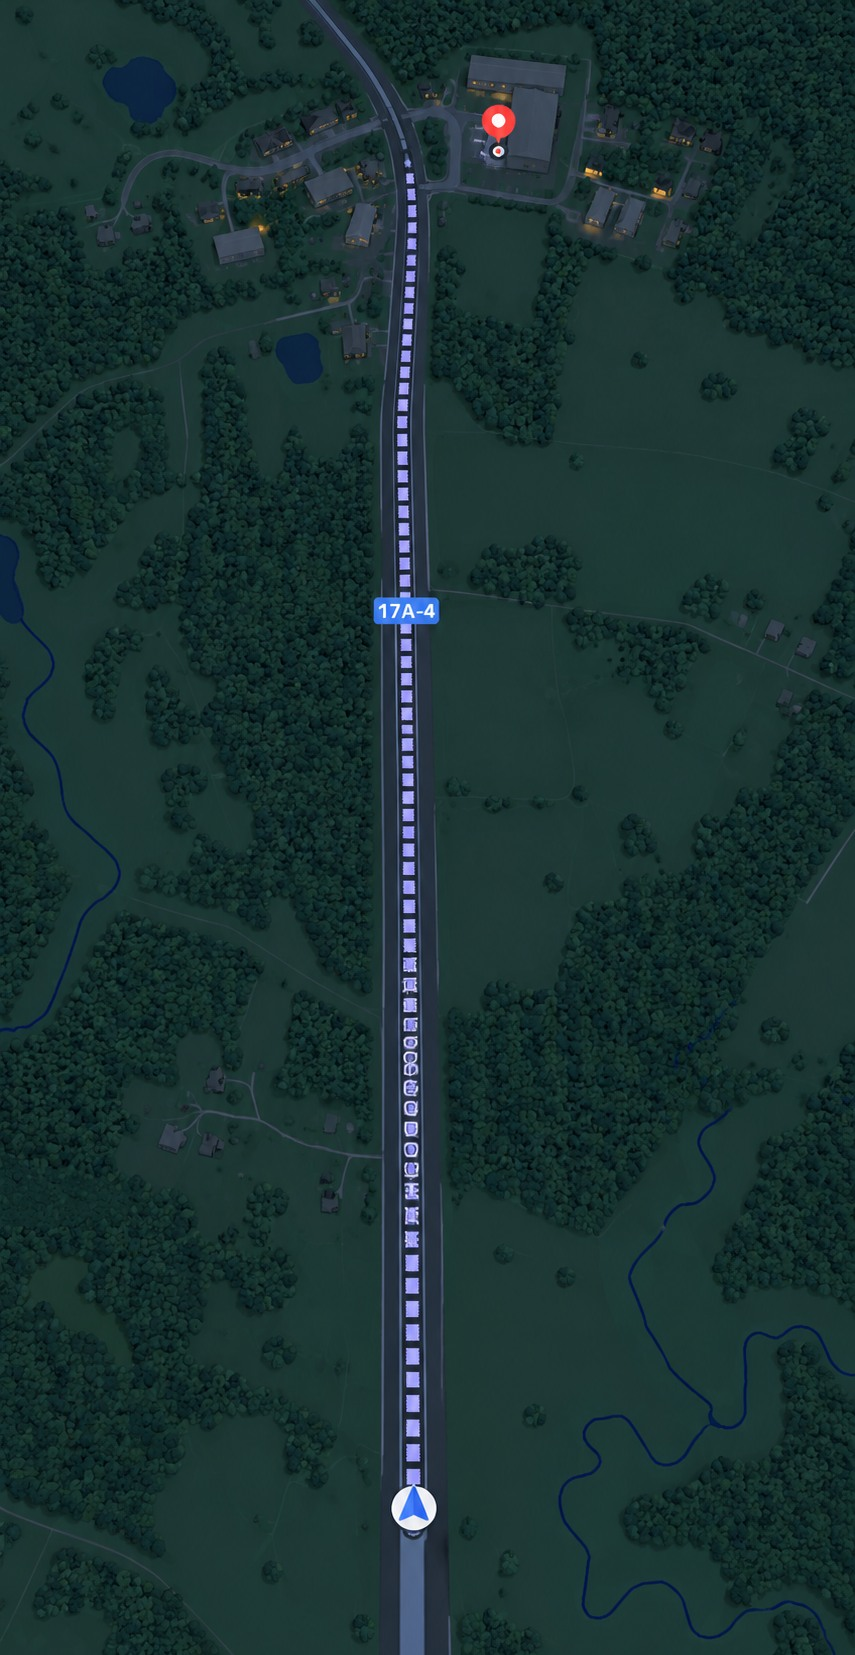
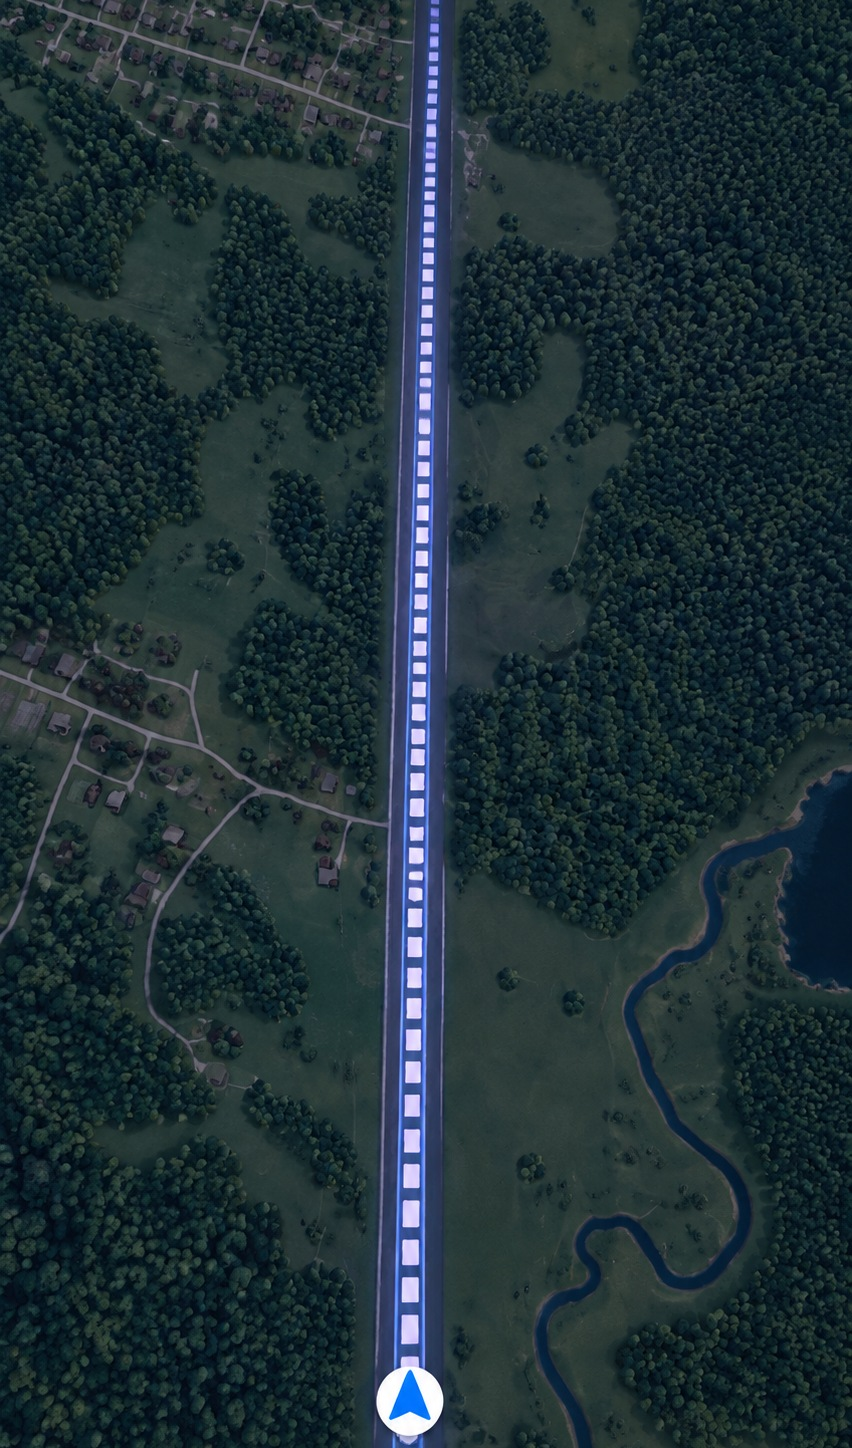
Add files via upload

diff --git a/index.html b/index.html
@@ -1,7 +1,7 @@
-<!doctype html><html lang="ru"><head><meta charset="utf-8"><meta name="viewport" content="width=device-width,initial-scale=1,maximum-scale=1,user-scalable=no,viewport-fit=cover"><meta name="apple-mobile-web-app-capable" content="yes"><meta name="apple-mobile-web-app-status-bar-style" content="black-translucent"><meta name="apple-mobile-web-app-title" content="Лесногорск"><meta name="mobile-web-app-capable" content="yes"><meta name="theme-color" content="#173a33"><link rel="manifest" href="manifest.webmanifest"><link rel="apple-touch-icon" href="icon.png"><title>Лесногорск — карта</title><style>*{box-sizing:border-box}html,body{margin:0;width:100%;height:100%;overflow:hidden;background:#173a33;font-family:-apple-system,BlinkMacSystemFont,"Segoe UI",sans-serif}canvas{position:fixed;inset:0;width:100%;height:100%;touch-action:none;display:block}#bottom{position:fixed;bottom:0;left:0;right:0;min-height:94px;padding:23px 8px calc(22px + env(safe-area-inset-bottom));background:#202126;color:white;text-align:center;border-radius:28px 28px 0 0;font-size:clamp(22px,6vw,30px);font-weight:650;pointer-events:none}#bottom span{color:#a6a7ad;font-weight:500}</style></head><body><canvas id="map" aria-label="Карта Лесногорского шоссе"></canvas><div id="bottom">Ещё 9 мин <span>· 1 км</span></div><script>
+<!doctype html><html lang="ru"><head><meta charset="utf-8"><meta name="viewport" content="width=device-width,initial-scale=1,maximum-scale=1,user-scalable=no,viewport-fit=cover"><meta name="apple-mobile-web-app-capable" content="yes"><meta name="apple-mobile-web-app-status-bar-style" content="black-translucent"><meta name="apple-mobile-web-app-title" content="Лесногорск"><meta name="mobile-web-app-capable" content="yes"><meta name="theme-color" content="#17252b"><link rel="manifest" href="manifest.webmanifest"><link rel="apple-touch-icon" href="icon.png"><title>Лесногорск — карта</title><style>*{box-sizing:border-box}html,body{margin:0;width:100%;height:100%;overflow:hidden;background:#17252b;font-family:-apple-system,BlinkMacSystemFont,"Segoe UI",sans-serif}canvas{position:fixed;inset:0;width:100%;height:100%;touch-action:none;display:block}#bottom{position:fixed;bottom:0;left:0;right:0;min-height:118px;padding:27px 8px calc(28px + env(safe-area-inset-bottom));background:#121825;color:white;text-align:center;border-radius:30px 30px 0 0;font-size:clamp(22px,6vw,30px);font-weight:650;pointer-events:none}#bottom span{color:#a6a7ad;font-weight:500}body:after{content:"";position:fixed;bottom:0;left:0;right:0;height:env(safe-area-inset-bottom);background:#121825;pointer-events:none}</style></head><body><canvas id="map" aria-label="Карта Лесногорского шоссе"></canvas><div id="bottom">Ещё 9 мин <span>· 1 км</span></div><script>
 const img=new Image();img.src='map.jpg';const canvas=document.getElementById('map'),ctx=canvas.getContext('2d');let w=0,h=0,zoom=1,offX=0,offY=0;const fingers=new Map();let previous=null;
 function resize(){w=innerWidth;h=innerHeight;const r=Math.min(devicePixelRatio||1,3);canvas.width=Math.round(w*r);canvas.height=Math.round(h*r);ctx.setTransform(r,0,0,r,0,0);draw()}
-function draw(){ctx.fillStyle='#173a33';ctx.fillRect(0,0,w,h);if(!img.complete||!img.naturalWidth)return;const scale=Math.max(w/img.width,h/img.height)*zoom;ctx.save();ctx.translate(w/2+offX,h/2+offY);ctx.drawImage(img,-img.width*scale/2,-img.height*scale/2,img.width*scale,img.height*scale);ctx.restore()}
+function draw(){ctx.fillStyle='#17252b';ctx.fillRect(0,0,w,h);if(!img.complete||!img.naturalWidth)return;const scale=Math.max(w/img.width,h/img.height)*zoom;ctx.save();ctx.translate(w/2+offX,h/2+offY);ctx.drawImage(img,-img.width*scale/2,-img.height*scale/2,img.width*scale,img.height*scale);ctx.restore()}
 img.onload=draw;function metrics(){const pts=[...fingers.values()];if(!pts.length)return null;if(pts.length===1)return{x:pts[0].x,y:pts[0].y,d:0};return{x:(pts[0].x+pts[1].x)/2,y:(pts[0].y+pts[1].y)/2,d:Math.hypot(pts[0].x-pts[1].x,pts[0].y-pts[1].y)}}
 canvas.addEventListener('pointerdown',e=>{canvas.setPointerCapture(e.pointerId);fingers.set(e.pointerId,{x:e.clientX,y:e.clientY});previous=metrics()});canvas.addEventListener('pointermove',e=>{if(!fingers.has(e.pointerId))return;fingers.set(e.pointerId,{x:e.clientX,y:e.clientY});const now=metrics();if(previous){offX+=now.x-previous.x;offY+=now.y-previous.y;if(now.d&&previous.d)zoom=Math.min(4,Math.max(.65,zoom*now.d/previous.d))}previous=now;draw()});for(const ev of ['pointerup','pointercancel','lostpointercapture'])canvas.addEventListener(ev,e=>{fingers.delete(e.pointerId);previous=metrics()});canvas.addEventListener('wheel',e=>{e.preventDefault();zoom=Math.max(.65,Math.min(4,zoom*(e.deltaY>0?.92:1.08)));draw()},{passive:false});addEventListener('resize',resize);resize();if('serviceWorker'in navigator&&location.protocol==='https:')navigator.serviceWorker.register('./sw.js').catch(()=>{});
 </script></body></html>

diff --git a/sw.js b/sw.js
@@ -1,1 +1,1 @@
-const CACHE='lesnogorsk-map-v1';const ASSETS=['./','./index.html','./map.jpg','./icon.png','./manifest.webmanifest'];self.addEventListener('install',e=>e.waitUntil(caches.open(CACHE).then(c=>c.addAll(ASSETS))));self.addEventListener('fetch',e=>e.respondWith(caches.match(e.request).then(r=>r||fetch(e.request))));
+const CACHE='lesnogorsk-map-v4';const ASSETS=['./','./index.html','./map.jpg','./icon.png','./manifest.webmanifest'];self.addEventListener('install',e=>{self.skipWaiting();e.waitUntil(caches.open(CACHE).then(c=>c.addAll(ASSETS)))});self.addEventListener('activate',e=>e.waitUntil(Promise.all([clients.claim(),caches.keys().then(keys=>Promise.all(keys.filter(k=>k!==CACHE).map(k=>caches.delete(k))))])));self.addEventListener('fetch',e=>e.respondWith(caches.match(e.request).then(r=>r||fetch(e.request))));
